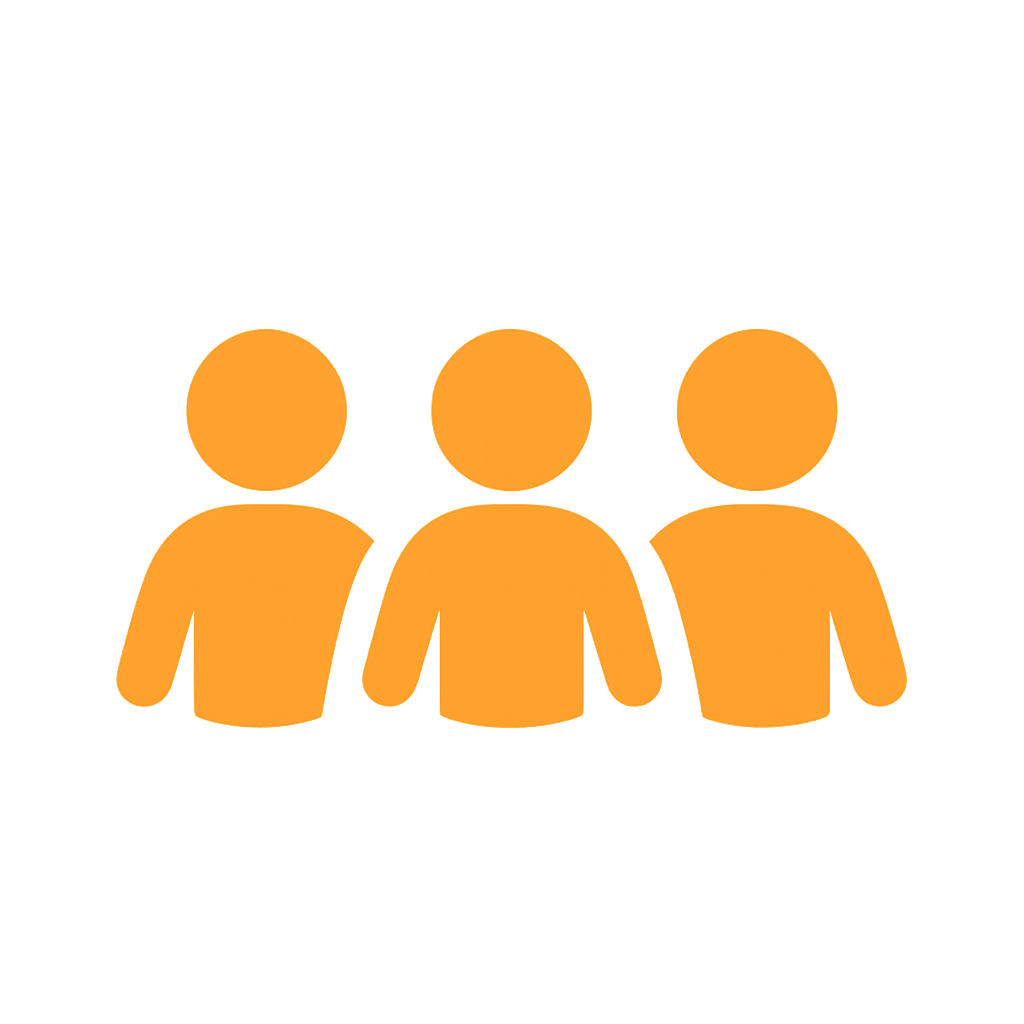
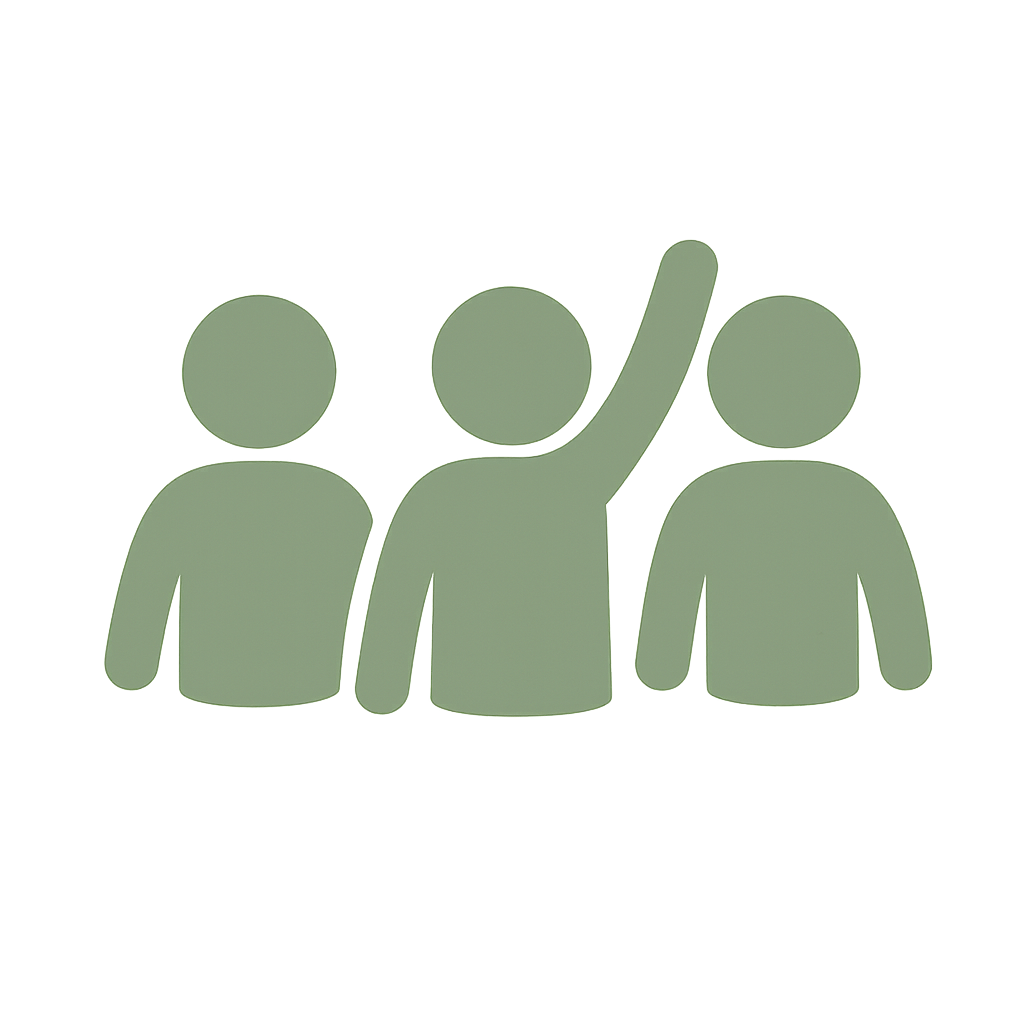
update the theme
I change the website theme

Changed region(s): [[0.0938, 0.2188, 0.9375, 0.7188]]

diff --git a/frontend/src/components/Header.vue b/frontend/src/components/Header.vue
@@ -1,22 +1,17 @@
 <template>
-  <!-- Full-width header container -->
   <div class="container-fluid">
     <header class="custom-header d-flex flex-wrap justify-content-center align-items-center border-bottom">
-      
       <!-- Brand logo and name -->
       <router-link
         to="/"
         class="brand d-flex align-items-center me-md-auto link-body-emphasis text-decoration-none"
       >
-        <!-- Brand icon (orange version) -->
         <img
           src="/images/header.png"
           alt="Unitee Logo"
           class="me-2 d-none d-md-inline"
           style="width: 48px; height: 48px;"
         />
-
-        <!-- Brand name -->
         <span class="brand-name">
           Unit<span class="highlight">e</span>e
         </span>
@@ -38,29 +33,22 @@
   </div>
 </template>
 
-
 <script setup>
 // No additional logic needed here
 </script>
 
 <style scoped>
-/* ---------------------
-  HEADER LAYOUT STYLES
----------------------- */
 .custom-header {
-  background-color: rgba(252, 235, 213, 0.8); /* soft warm beige */
+  background-color: #EAF3EA; /* pale mint background */
   padding: 0.5rem 2rem;
   border-radius: 0 0 0.5rem 0.5rem;
   box-shadow: 0 2px 6px rgba(0, 0, 0, 0.05);
 }
 
-/* ---------------------
-  NAVIGATION STYLES
----------------------- */
 .nav-link {
   font-weight: 500;
   font-size: 1rem;
-  color: #4b3832; /* warm dark brown */
+  color: #2E2E2E;
   background-color: transparent;
   border-radius: 0.375rem;
   padding: 0.5rem 1rem;
@@ -68,40 +56,36 @@
 }
 
 .nav-link:hover {
-  background-color: #e08f55; /* soft orange hover */
-  color: #fff;
+  background-color: #BFD8B8; /* soft herbal green */
+  color: #2E2E2E;
   box-shadow: 0 2px 4px rgba(0, 0, 0, 0.1);
 }
 
 .nav-link.active {
-  background-color: #eec8aa;
-  color: #000;
+  background-color: #BFD8B8; /* herbal green for active */
+  color: #2E2E2E;
   font-weight: 600;
   box-shadow: inset 0 0 3px rgba(0, 0, 0, 0.05);
 }
 
-/* ---------------------
-  BRANDING STYLES
----------------------- */
 .brand-name {
   font-size: 2.5rem;
   font-weight: 700;
   font-family: 'Segoe UI', 'Helvetica Neue', sans-serif;
   letter-spacing: 0.5px;
-  color: #4b3832;
+  color: #2E2E2E;
   transition: transform 0.3s ease, color 0.3s ease;
 }
 
 .brand-name:hover {
   transform: scale(1.05);
-  color: #e08f55;
+  color: #7DA87B; /* soft sage green */
 }
 
 .brand-name .highlight {
-  color: #e08f55;
+  color: #BFD8B8; /* accent sage */
 }
 
-/* Optional: smaller screens hide icon, keep brand name */
 @media (max-width: 576px) {
   .brand-name {
     font-size: 2rem;

diff --git a/frontend/src/views/HomeView.vue b/frontend/src/views/HomeView.vue
@@ -2,7 +2,6 @@
   <div>
     <!-- 🖼 Hero Section with background image -->
     <section class="hero-image d-flex align-items-center justify-content-center text-center text-white">
-      <!-- Text content inside soft translucent background box -->
       <div class="z-index-2 position-relative text-box p-4">
         <h1 class="display-4 fw-bold fade-in-up">Strengthening Communities for Seniors</h1>
         <p class="lead fade-in-up">
@@ -12,7 +11,7 @@
     </section>
 
     <!-- 📷 Image Cards Section -->
-    <section class="py-5" style="background-color: #F4C1A1;">
+    <section class="py-5" style="background-color: #EAF3EA;">
       <div class="container">
         <div class="row g-4">
 
@@ -49,9 +48,6 @@
 </template>
 
 <style scoped>
-/* -----------------------------------
-   Hero Section with Background Image
------------------------------------- */
 .hero-image {
   background-image: url('/images/home.jpg');
   background-size: cover;
@@ -62,7 +58,6 @@
 }
 
 .hero-image::before {
-  /* Gradient overlay */
   content: '';
   position: absolute;
   top: 0;
@@ -73,9 +68,8 @@
   z-index: 1;
 }
 
-/* Text container: translucent box for white text */
 .text-box {
-  background-color: rgba(0, 0, 0, 0.4); /* translucent dark to boost white contrast */
+  background-color: rgba(0, 0, 0, 0.4);
   backdrop-filter: blur(4px);
   -webkit-backdrop-filter: blur(4px);
   border-radius: 1rem;
@@ -85,7 +79,6 @@
   box-shadow: 0 8px 16px rgba(0,0,0,0.2);
 }
 
-/* Animation: fade-in and slide-up */
 .fade-in-up {
   opacity: 0;
   transform: translateY(20px);
@@ -100,9 +93,6 @@
   }
 }
 
-/* -----------------------------------
-   Card Styling + Animation
------------------------------------- */
 .card-wrapper {
   position: relative;
   border-radius: 0.5rem;
@@ -116,15 +106,14 @@
   box-shadow: 0 8px 12px rgba(0,0,0,0.15);
 }
 
-/* Card overlay title */
 .card-title-overlay {
   position: absolute;
   bottom: 0;
   left: 0;
   margin: 1rem;
   padding: 0.5rem 1rem;
-  background-color: rgba(0,0,0,0.5);
-  color: white;
+  background-color: #BFD8B8; /* replaced warm apricot with herbal green */
+  color: #2E2E2E;
   border-radius: 0.5rem;
   font-weight: 600;
 }
